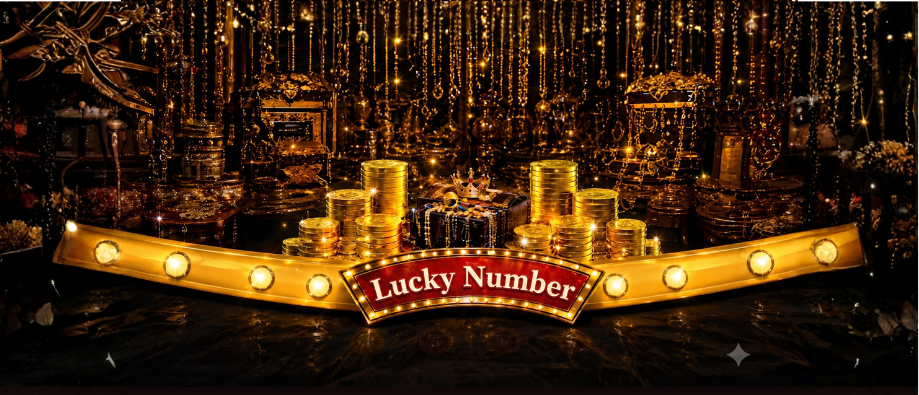
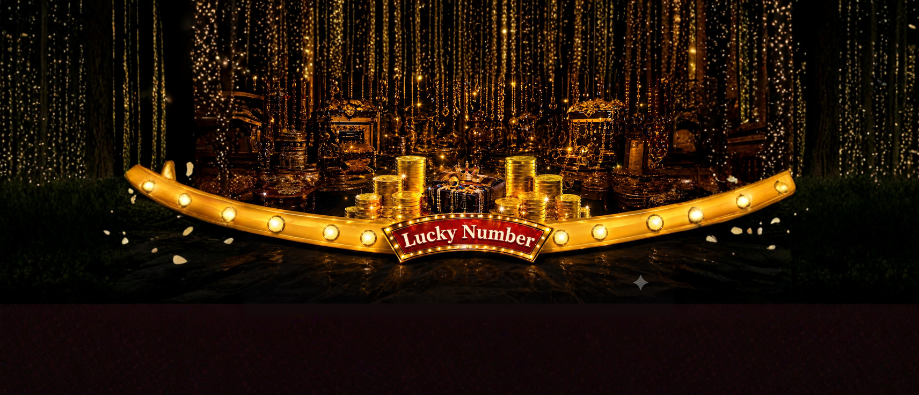
update

diff --git a/src/pages/game.css b/src/pages/game.css
@@ -470,10 +470,6 @@ body{
   }
 }
 @media (max-width: 770px) {
-  .game-container{
-      background-image: url("../../public/images/bg2.png") !important;
-      background-position: center 0px !important;
-  }
 .pointer.glow::before{
   content: '';
   position: absolute;
@@ -558,8 +554,8 @@ left: -24px;
   }
 
   .wheel-container {
-    width: 220px !important;
-    height: 220px !important;
+   width: 200px !important;
+    height: 200px !important;
     margin-top: -40px !important;
   }
 .betamount-tigger2{
@@ -569,40 +565,40 @@ left: -24px;
   width: 125px !important;
 }
   .wheel {
-    width: 200px !important;
-    height: 200px !important;
+   width: 160px !important;
+    height: 160px !important;
   }
 
   .wheel-border::after {
-    width: 80px !important;
-    height: 80px !important;
-    top: 37% !important;
-    left: 37% !important;
+   width: 70px !important;
+    height: 70px !important;
+    top: 36% !important;
+    left: 34% !important;
   }
 
   .wheel-border {
-    height: 262px !important;
-    width: 270px !important;
-    left: -29px !important;
-    top: -31px !important;
+   height: 210px !important;
+    width: 220px !important;
+    left: -11px !important;
+    top: -14px !important;
   }
 
   .pointer {
-    position: absolute !important;
-    top: -30px !important;
-    left: 37% !important;
+ position: absolute !important;
+    top: -10px !important;
+    left: 39% !important;
     z-index: 20 !important;
-    width: 60px !important;
-    height: 55px !important;
+    width: 50px !important;
+    height: 40px !important;
   }
 
   .nm {
-    width: 90% !important;
+    width: 80% !important;
   }
 
   .nm,
   .number div {
-    height: 60px !important;
+    height: 50px !important;
   }
 
   .prev-centl button,
@@ -611,9 +607,20 @@ left: -24px;
   }
 
   .cc {
-    bottom: 25% !important;
+    bottom: 22% !important;
   }
-
+.game-container{
+  background-position: center -46px !important;
+}
+.glyout{
+  margin-top: -24px;
+}
+.number-item{
+  font-size: 18px;
+}
+.wheel{
+  border:3px solid #bf7b06 !important;
+}
   .prev-centl button {
     width: 100px !important;
   }
@@ -699,12 +706,6 @@ position: absolute;
 
 @media screen and   ( max-height: 400px )
 {
-  .game-container{
-    background-position: center 0px !important;
-  background: url("../../public/images/bg2.png") !important;
-
-
-  }
      .pointer.glow::before{
   content: '';
   position: absolute;
@@ -789,8 +790,8 @@ left: -24px;
   }
 
   .wheel-container {
-    width: 220px !important;
-    height: 220px !important;
+ width: 200px !important;
+    height: 200px !important;
     margin-top: -40px !important;
   }
 .betamount-tigger2{
@@ -800,40 +801,40 @@ left: -24px;
   width: 125px !important;
 }
   .wheel {
-    width: 200px !important;
-    height: 200px !important;
+   width: 160px !important;
+    height: 160px !important;
   }
 
   .wheel-border::after {
-    width: 80px !important;
-    height: 80px !important;
-    top: 37% !important;
-    left: 37% !important;
+  width: 70px !important;
+    height: 70px !important;
+    top: 36% !important;
+    left: 34% !important;
   }
 
   .wheel-border {
-    height: 262px !important;
-    width: 270px !important;
-    left: -29px !important;
-    top: -31px !important;
+  height: 210px !important;
+    width: 220px !important;
+    left: -11px !important;
+    top: -14px !important;
   }
 
   .pointer {
-    position: absolute !important;
-    top: -30px !important;
-    left: 37% !important;
+  position: absolute !important;
+    top: -10px !important;
+    left: 39% !important;
     z-index: 20 !important;
-    width: 60px !important;
-    height: 55px !important;
+    width: 50px !important;
+    height: 40px !important;
   }
 
   .nm {
-    width: 90% !important;
+    width: 80% !important;
   }
 
   .nm,
   .number div {
-    height: 60px !important;
+    height: 50px !important;
   }
 
   .prev-centl button,
@@ -842,9 +843,20 @@ left: -24px;
   }
 
   .cc {
-    bottom: 25% !important;
+    bottom: 22% !important;
   }
-
+.game-container{
+  background-position: center -46px !important;
+}
+.glyout{
+  margin-top: -24px;
+}
+.wheel{
+  border:3px solid #bf7b06 !important;
+}
+.number-item{
+  font-size: 18px;
+}
   .prev-centl button {
     width: 100px !important;
   }

diff --git a/src/pages/Game.jsx b/src/pages/Game.jsx
@@ -266,9 +266,9 @@ useEffect(() => {
 const isSmallHeight = window.innerHeight < 410;
 
 const radius = isSmallHeight
-  ? 70
+  ? 55
   : screenWidth <= 780
-  ? 70
+  ? 55
   : screenWidth <= 1360
   ? 90
   : 130;
@@ -655,7 +655,7 @@ const toggleFullscreen = () => {
 `}
 </style>
 
-   <div className="grid grid-cols-3 gap-3 mb-6">
+   <div className="grid grid-cols-3 gap-3 mb-6 glyout">
         <div>
           {/* <div className="light-group-left">
             <div className="light-1"><img src="/images/use/light.webp" alt="" /> </div>